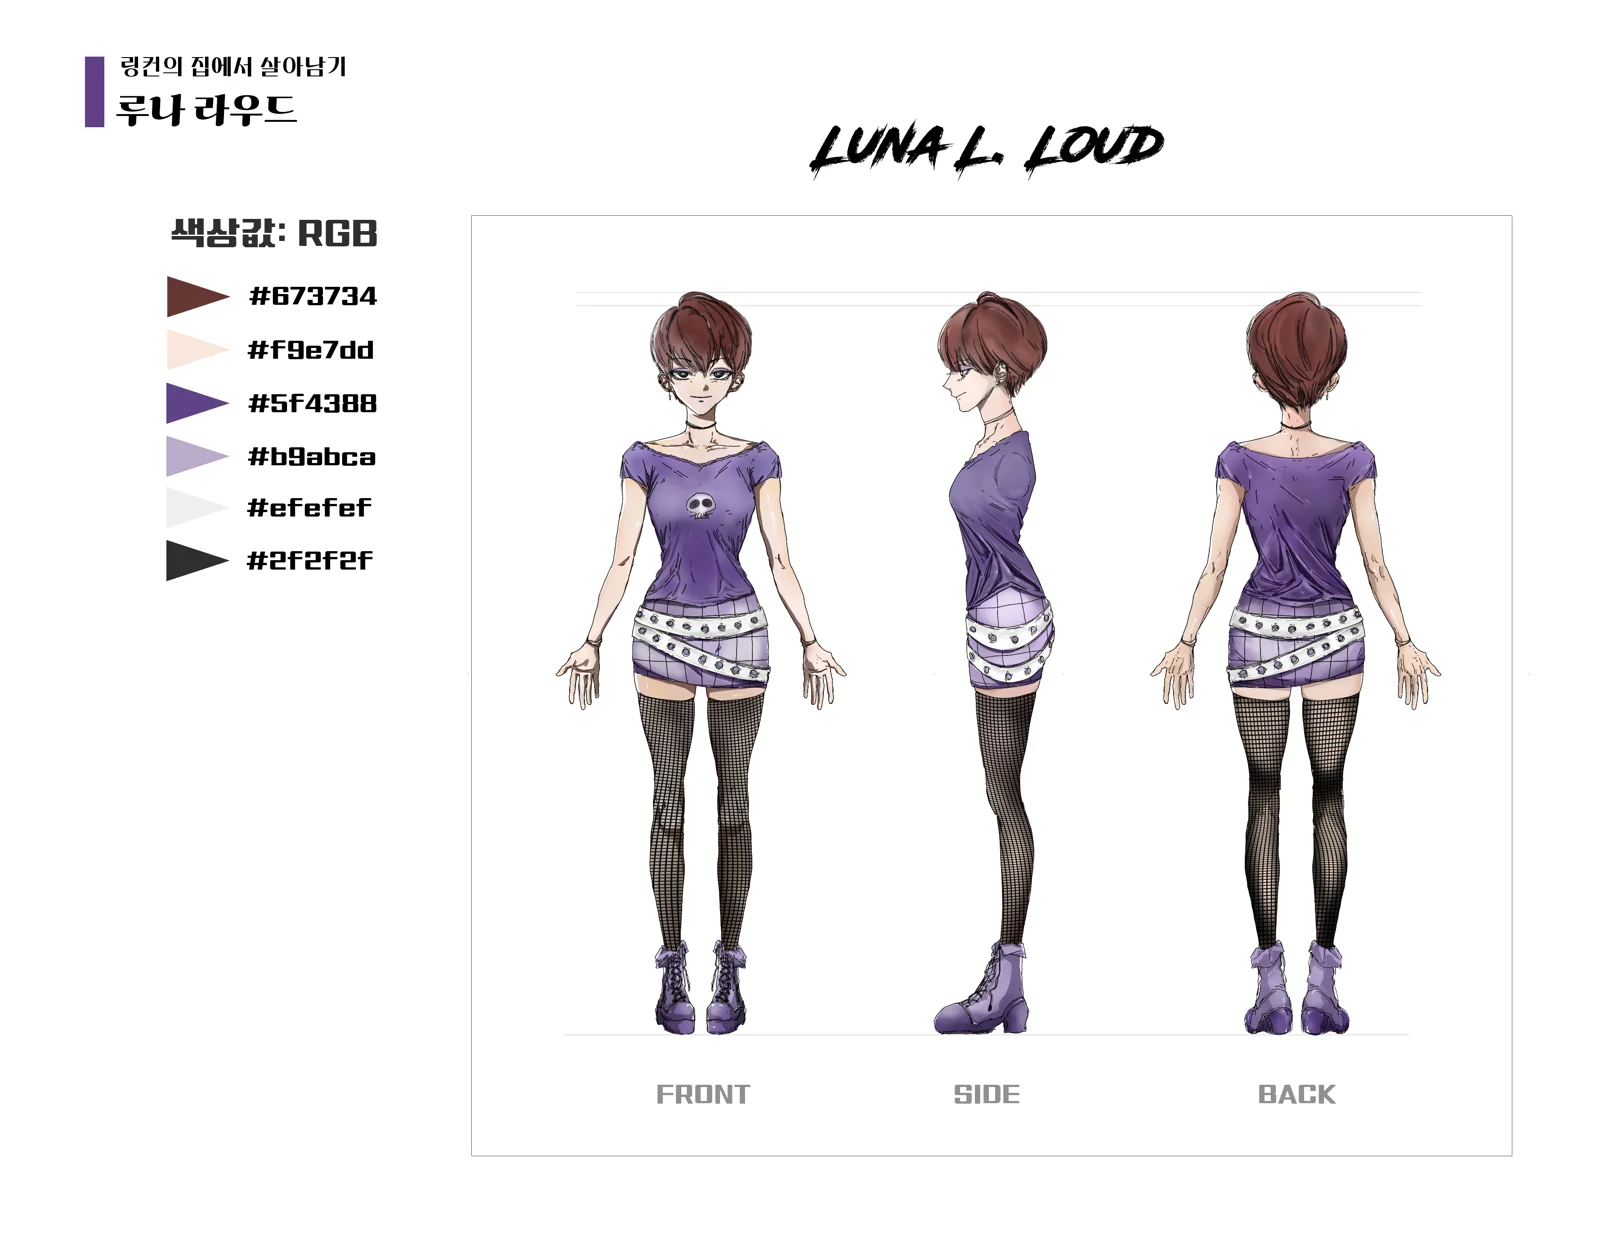
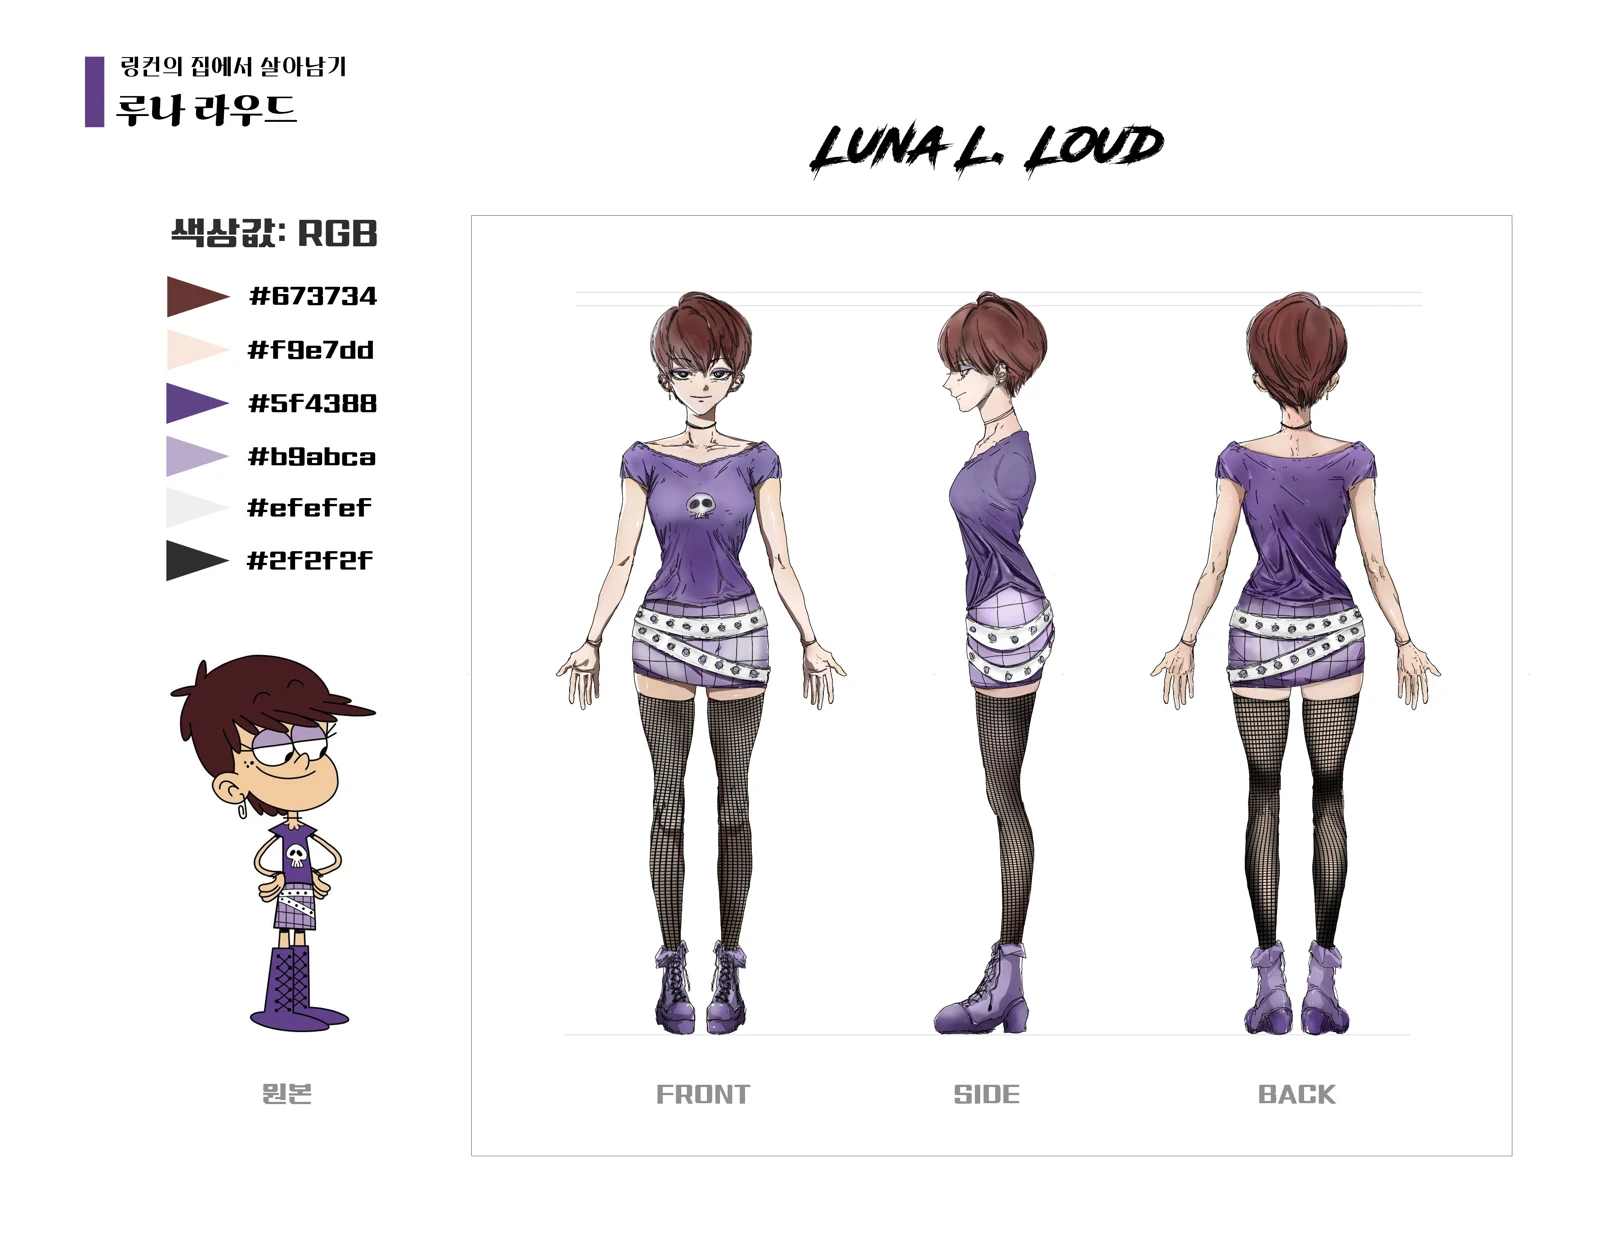
Restore original Luna on sheet, drop Yuzume cover slide

Changed region(s): [[0.0938, 0.4984, 0.25, 0.9034]]

diff --git a/js/data.js b/js/data.js
@@ -484,7 +484,7 @@ const PROJECTS = {
 
   chardesign: {
     cat: 'design', title: '캐릭터 디자인 — 리모델링 · 외주 · 창작',
-    heroes: ['cd-luna.png', 'cd-noa.png', 'cd-yuzume-cover.png', 'cd-yuzume-sheet.png', 'cd-yuzume-profile.png'],
+    heroes: ['cd-luna.png', 'cd-noa.png', 'cd-yuzume-sheet.png', 'cd-yuzume-profile.png'],
     heroRatio: '16 / 10',
     headline: '2025-1 개인 프로젝트 · 캐릭터 디자인',
     body: [
